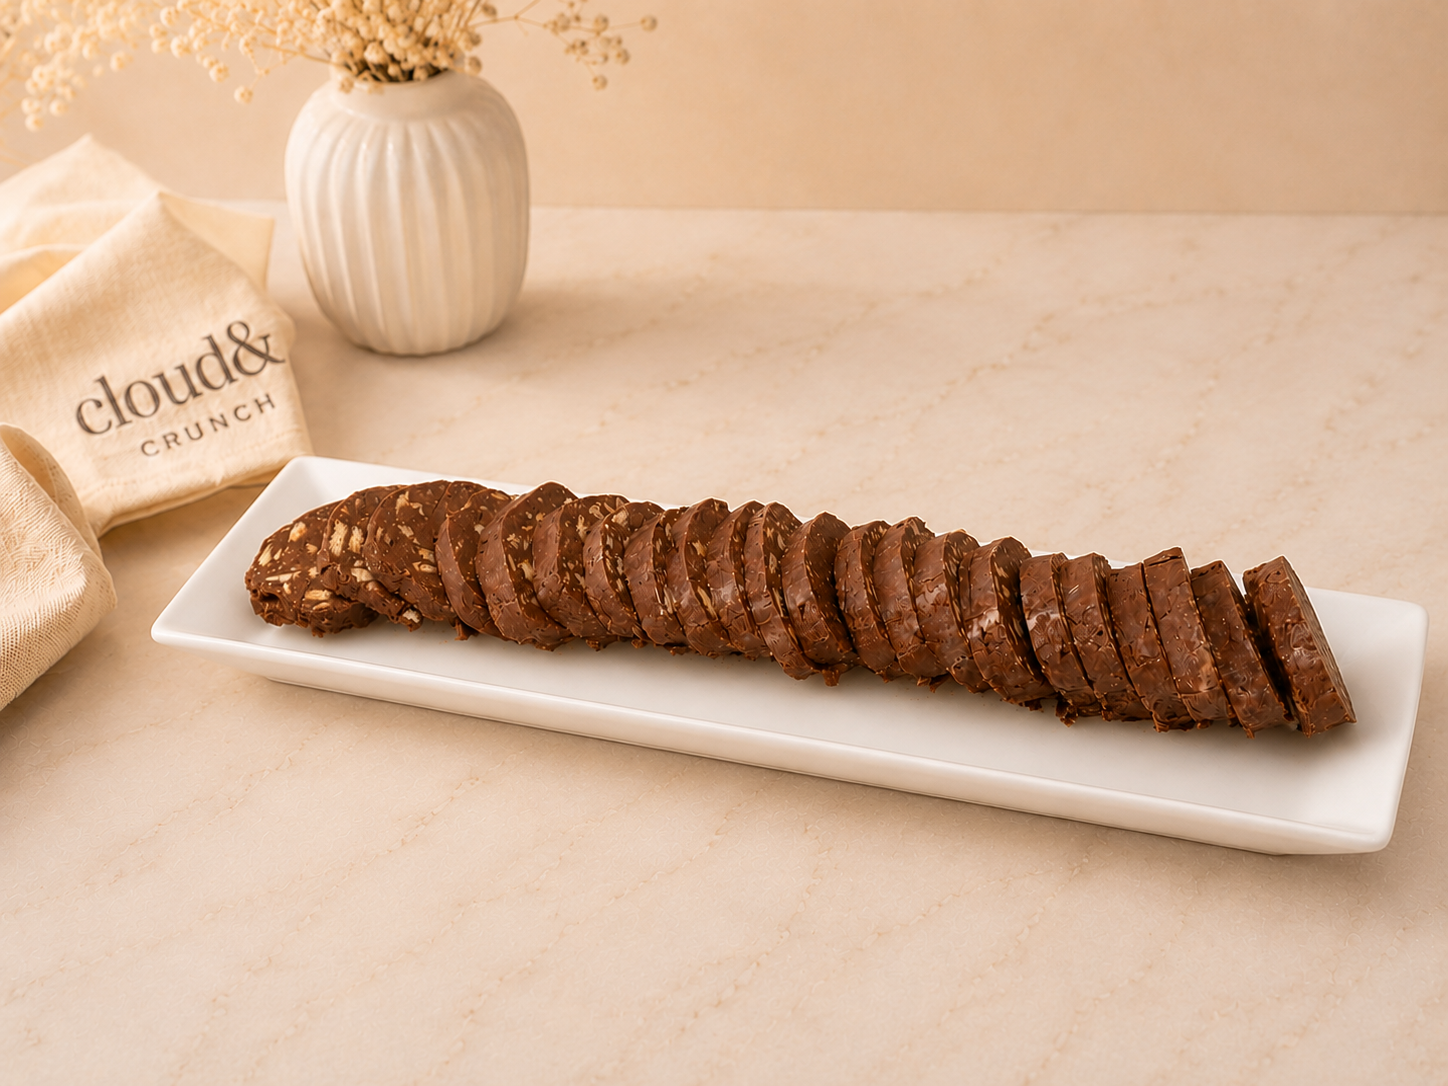
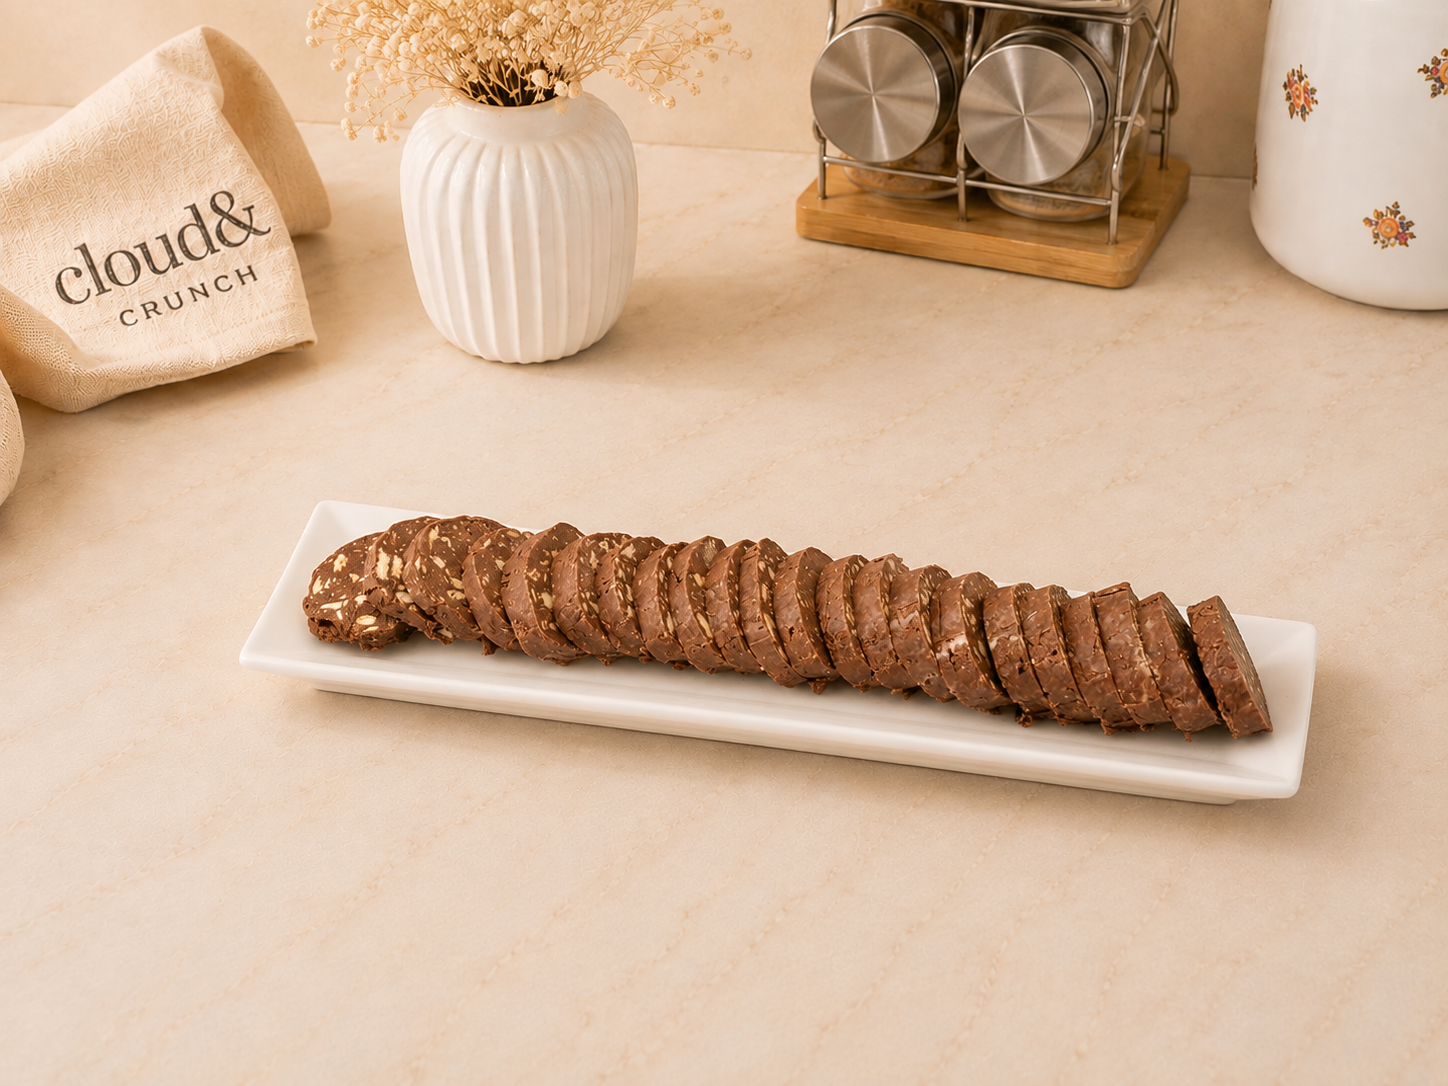
add images

diff --git a/components/Products.tsx b/components/Products.tsx
@@ -16,21 +16,33 @@ const products = [
     category: 'Sobremesas',
   },
   {
+    name: 'Mousse de Morango',
+    description: 'Uma mousse leve e cremosa com sabor intenso a morango. Textura aveludada que proporciona uma experiência doce e refrescante.',
+    image: '/images/mousse-morango.webp',
+    category: 'Sobremesas',
+  },
+  {
+    name: 'Mousse Maracujá com sementes',
+    description: 'Uma mousse leve e refrescante com o sabor tropical do maracujá e sementes crocantes. Textura aveludada que proporciona uma experiência única e irresistível.',
+    image: '/images/mousse-maracuja.webp',
+    category: 'Sobremesas',
+  },
+   {
+    name: 'Mousse de Manga',
+    description: 'Uma mousse leve e refrescante feita com mangas maduras e suculentas. Textura aveludada que proporciona uma experiência tropical irresistível.',
+    image: '/images/mousse-manga-taca-cheia.webp',
+    category: 'Sobremesas',
+  },
+  {
+    name: 'Salame de Chocolate',
+    description: 'Um clássico português irresistível, feito com chocolate rico e bolachas crocantes. Perfeito para partilhar ou saborear sozinho.',
+    image: '/images/salame-chocolate-1.webp',
+    category: 'Sobremesas',
+  },
+  {
     name: 'Cheesecake de Morango',
     description: 'Um cheesecake cremoso com uma camada generosa de morangos frescos. Uma sobremesa clássica feita com ingredientes de qualidade premium.',
     image: '/images/strawberry-cheescake.webp',
-    category: 'Sobremesas',
-  },
-  // {
-  //   name: 'Cheesecake de Morango Tacinha',
-  //   description: 'A mesma delícia cremosa do nosso cheesecake de morango, agora em formato individual. Perfeito para uma porção pessoal de indulgência.',
-  //   image: '/images/cheesecake-morango-tacinha.webp',
-  //   category: 'Sobremesas',
-  // },
-  {
-    name: 'Queques de Maçã e Passas',
-    description: 'Queques artesanais macios e aromáticos, repletos de maçã fresca e passas suculentas. Ideais para acompanhar um café ou chá.',
-    image: '/images/apple-raisin-queques.webp',
     category: 'Sobremesas',
   },
   {
@@ -40,9 +52,9 @@ const products = [
     category: 'Sobremesas',
   },
   {
-    name: 'Mousse de Manga',
-    description: 'Uma mousse leve e refrescante feita com mangas maduras e suculentas. Textura aveludada que proporciona uma experiência tropical irresistível.',
-    image: '/images/mousse-manga-taca-cheia.webp',
+    name: 'Queques de Maçã e Passas',
+    description: 'Queques artesanais macios e aromáticos, repletos de maçã fresca e passas suculentas. Ideais para acompanhar um café ou chá.',
+    image: '/images/apple-raisin-queques.webp',
     category: 'Sobremesas',
   },
   {
@@ -51,12 +63,7 @@ const products = [
     image: '/images/quiche-espinafres.webp',
     category: 'Bonus',
   },
-  {
-    name: 'Salame de Chocolate',
-    description: 'Um clássico português irresistível, feito com chocolate rico e bolachas crocantes. Perfeito para partilhar ou saborear sozinho.',
-    image: '/images/salame-chocolate.webp',
-    category: 'Sobremesas',
-  },
+  
 ]
 
 export default function Products() {
@@ -158,10 +165,7 @@ export default function Products() {
                       alt={product.name}
                       width={600}
                       height={600}
-                      className={`h-full w-full transition-transform duration-500 group-hover:scale-110 ${
-                        product.image === '/images/salame-chocolate.webp' 
-                          ? 'object-contain object-top' 
-                          : 'object-cover object-center'
+                      className={`h-full w-full transition-transform duration-500 group-hover:scale-110 object-cover object-center'
                       }`}
                     />
                   </div>

diff --git a/app/clientes/page.tsx b/app/clientes/page.tsx
@@ -27,18 +27,18 @@ const products = [
     capacity: '230ml',
     minQuantity: '10',
     price: '3.50',
-    image: '/images/em-breve.webp',
+    image: '/images/mousse-maracuja.webp',
   },
-  // {
-  //   name: 'Strawberry Cheesecake Tacinha',
-  //   format: 'Tacinha',
-  //   capacity: '230ml',
-  //   minQuantity: 'AD',
-  //   price: '3.00',
-  //   image: '/images/cheesecake-morango-tacinha.webp',
-  // },
   {
-    name: 'Strawberry Cheesecake',
+    name: 'Mousse de Morango',
+    format: 'Tacinha',
+    capacity: '230ml',
+    minQuantity: 'AD',
+    price: '3.50',
+    image: '/images/mousse-morango.webp',
+  },
+  {
+    name: 'Cheesecake de Morango',
     format: 'Bolo',
     capacity: '26x6,4cm',
     minQuantity: '1',
@@ -83,7 +83,7 @@ const products = [
     capacity: 'AD',
     minQuantity: '1',
     price: '22.00',
-    image: '/images/salame-chocolate.webp',
+    image: '/images/salame-chocolate-1.webp',
   },
 ];
 

diff --git a/app/restaurantes/page.tsx b/app/restaurantes/page.tsx
@@ -27,18 +27,18 @@ const products = [
     capacity: '230ml',
     minQuantity: '10',
     price: '1.75',
-    image: '/images/em-breve.webp',
+    image: '/images/mousse-maracuja.webp',
   },
-  // {
-  //   name: 'Strawberry Cheesecake Tacinha',
-  //   format: 'Tacinha',
-  //   capacity: '230ml',
-  //   minQuantity: 'AD',
-  //   price: '1.50',
-  //   image: '/images/cheesecake-morango-tacinha.webp',
-  // },
   {
-    name: 'Strawberry Cheesecake',
+    name: 'Mousse de Morango',
+    format: 'Tacinha',
+    capacity: '230ml',
+    minQuantity: 'AD',
+    price: '1.70',
+    image: '/images/mousse-morango.webp',
+  },
+  {
+    name: 'Cheesecake de Morango',
     format: 'Bolo',
     capacity: '26x6,4cm',
     minQuantity: '1',
@@ -83,7 +83,7 @@ const products = [
     capacity: 'AD',
     minQuantity: '1',
     price: '14.50',
-    image: '/images/salame-chocolate.webp',
+    image: '/images/salame-chocolate-1.webp',
   },
 ];
 
